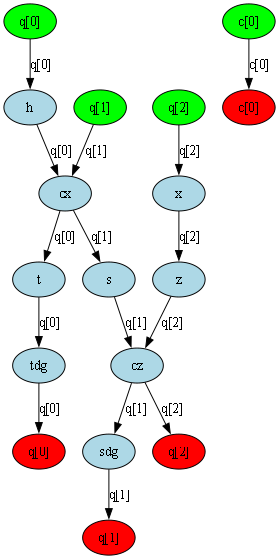
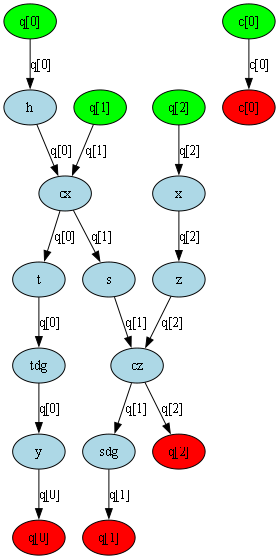
added example fulladder decomposition

Changed region(s): [[0.0287, 0.7603, 0.2581, 1.0]]

diff --git a/qiskit-to-xmlprogrammer/qiskit-to-xmlprogrammer.py b/qiskit-to-xmlprogrammer/qiskit-to-xmlprogrammer.py
@@ -15,6 +15,7 @@ from qiskit.visualization import dag_drawer
 import graphviz
 import os
 import sys
+from qiskit.circuit.library.arithmetic import FullAdderGate
 
 sys.path.append(os.path.dirname(os.path.dirname(os.path.abspath(__file__))))
 # current_dir = os.path.dirname(os.path.abspath(__file__))
@@ -79,6 +80,29 @@ print(qc.draw())
 dag_img = dag_drawer(dagEx3, style="color")
 dag_img.save('dagEx3.png')
 
+
+# -------------------------- QISKIT LIBRARY CIRCUITS ---------------------------
+
+# IMPORTANT: Decompose the library circuit into basic gates, so the visitor can handle it
+def decomposeToGates(qc):
+    prev_qc = qc
+    while True:
+        decomp = prev_qc.decompose()
+        if decomp == prev_qc:
+            break
+        prev_qc = decomp
+    return decomp
+
+
+# 1: Half Adder
+
+# Create a quantum circuit with 4 qubits:
+# 1, 2 are inputs qubits, 3 is carry-in, 4 is the output (a+b+carry-in)
+qc = QuantumCircuit(4)  # 4 qubits for a single 1-bit full adder
+qc.append(FullAdderGate(num_state_qubits=1), [0, 1, 2, 3])  # no argument, just 1-bit adder
+decomp = decomposeToGates(qc)
+print(decomp.draw())
+dagEx4 = circuit_to_dag(decomp)
 
 
 # ------------------------- DAG TO XMLPROGRAMMER -------------------------------
@@ -174,6 +198,7 @@ visitor = DAGtoXMLProgrammer()
 visitor.startVisit(dagEx1)
 visitor.startVisit(dagEx2)
 visitor.startVisit(dagEx3)
+visitor.startVisit(dagEx4)
 
 
 
